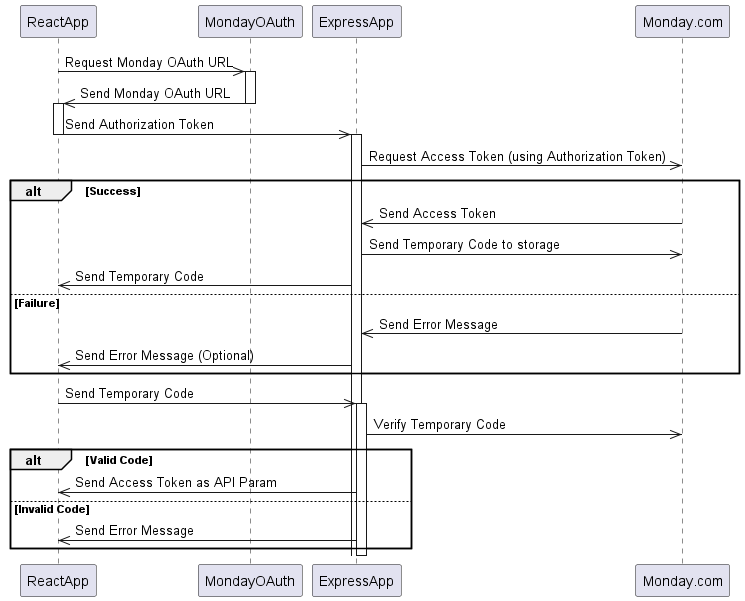
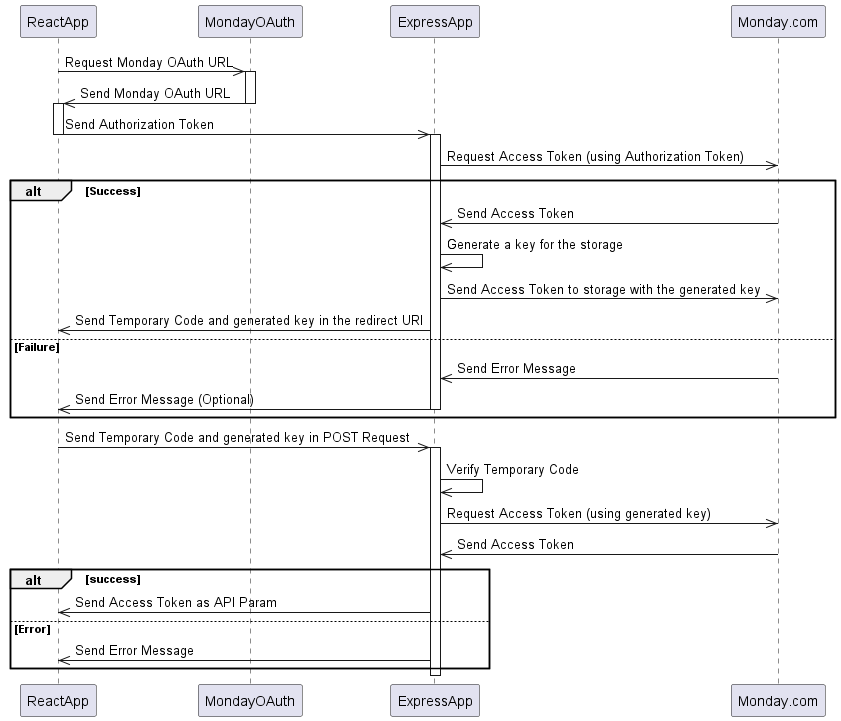
changed puml + added error handling + added some more comments and logs

diff --git a/oauth-server/src/controller/auth-token.ts b/oauth-server/src/controller/auth-token.ts
@@ -21,18 +21,18 @@ const AuthTokenController = async (req: Request, res: Response) => {
         });
     }
 
+    // Get the client ID and client secret from env variables
     const clientId = env.MONDAY_CLIENT_ID;
     const clientSecret = env.MONDAY_CLIENT_SECRET;
-    console.log("Client ID:", clientId)
-    console.log("Client Secret:", clientSecret)
-    console.log("Authorization token:", authorizationToken)
 
     // get the main access token from env variables
     const accessToken = env.ACCESS_TOKEN;
 
+    // Create a new storage object
     const storage = new Storage(accessToken);
 
     try {
+        // post request to monday to receive the access token using the authorization token
         const response = await axios({
             method: "post",
             url: "https://auth.monday.com/oauth2/token",
@@ -44,22 +44,36 @@ const AuthTokenController = async (req: Request, res: Response) => {
             },
         });
 
+        console.log("Monday response status:", response.status);
+
+        if (response.status === 401 || response.status === 403) {
+            return res.status(ResponseStatus.UNAUTHORIZED).json({
+                message: "Invalid authorization token",
+            });
+
+        } else if (response.status !== 200) {
+            return res.status(ResponseStatus.INTERNAL_SERVER_ERROR).json({
+                message: "Failed to obtain access token",
+            });
+        }
+
         const retrievedAccessToken = response.data.access_token;
 
-        const generatedKey = (Math.random() + 1).toString(36).substring(7);
+        // generate a small key to store the access token in storage
+        const generatedKey = (Math.random() + 1).toString(36).substring(8);
 
         const jwtSecret = env.JWT_SECRET;
 
+        // generate a temporary code that expires in 1 hour
         const generatedToken = jwt.sign({retrievedAccessToken}, jwtSecret, {
             expiresIn: "1h",
         });
 
-        const storageResult = await storage.set(generatedKey, retrievedAccessToken);
-        console.log("Storage result:", storageResult);
-
-        if (!retrievedAccessToken) {
+        const {success, error} = await storage.set(generatedKey, retrievedAccessToken);
+        if (!success) {
+            console.error("Failed to store access token:", error);
             return res.status(ResponseStatus.INTERNAL_SERVER_ERROR).json({
-                message: "Failed to obtain access token",
+                message: "Failed to store access token",
             });
         }
 

diff --git a/oauth-server/src/controller/access-token.ts b/oauth-server/src/controller/access-token.ts
@@ -32,22 +32,30 @@ const AccessTokenController = async (req: Request, res: Response) => {
 
     const storage = new Storage(accessToken);
 
-    try {
-        // retrieve the access token from storage using the temporary code
-        const retrievedAccessToken = await storage.get(storageKey);
-        console.log("Access token:", retrievedAccessToken);
-        res.status(ResponseStatus.OK).json({
-            message: "Access token obtained successfully",
-            accessToken: retrievedAccessToken,
-        });
+    const {success, error, value} = await storage.get(storageKey);
 
-        //await storage.delete(temporaryCode);
-        return res
-    } catch (error) {
-        console.error("Error exchanging authorization token:", error);
+    if (!success) {
+        console.error("Error retrieving temporary code:", error);
         return res.status(ResponseStatus.UNAUTHORIZED).json({
             message: "Invalid temporary code",
         });
+
+    } else {
+        console.log("Retrieved access token:", value);
+
+        const {success, error} = await storage.delete(storageKey);
+
+        if (!success) {
+            console.error("Error deleting temporary code:", error);
+            return res.status(ResponseStatus.INTERNAL_SERVER_ERROR).json({
+                message: "Failed to delete temporary code",
+            });
+
+        } else {
+            return res.status(ResponseStatus.OK).json({
+                access_token: value,
+            });
+        }
     }
 }
 
